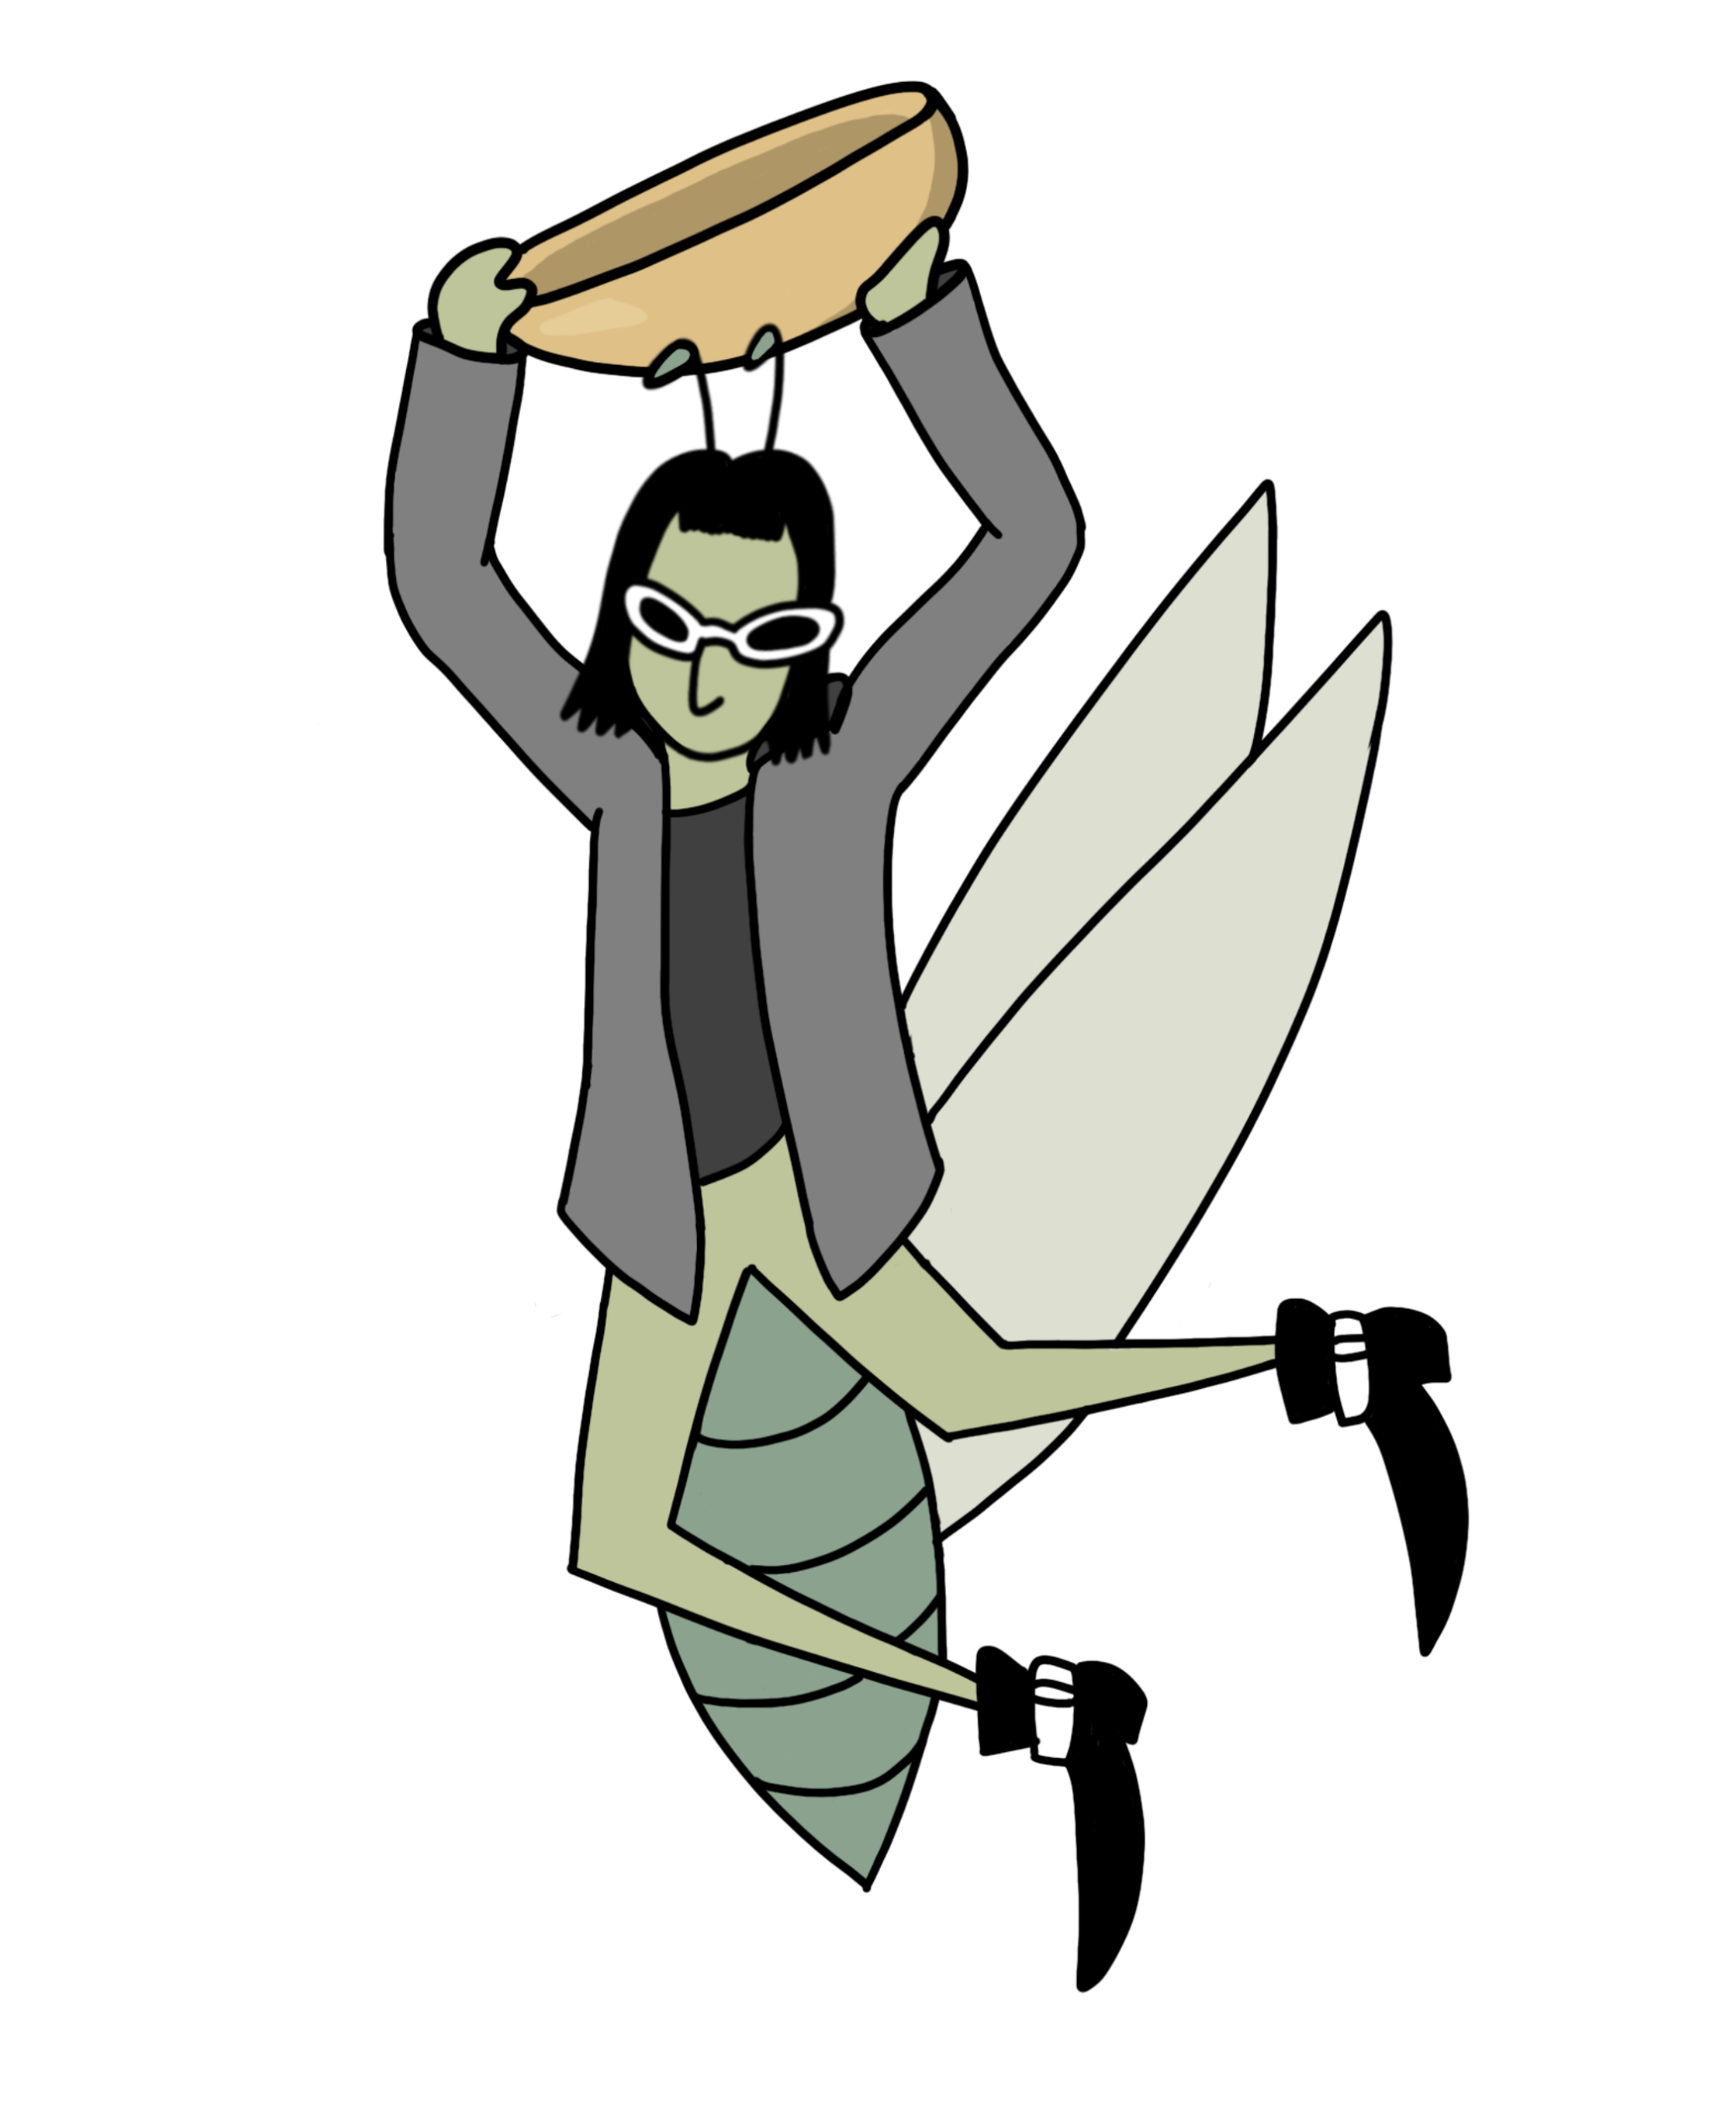
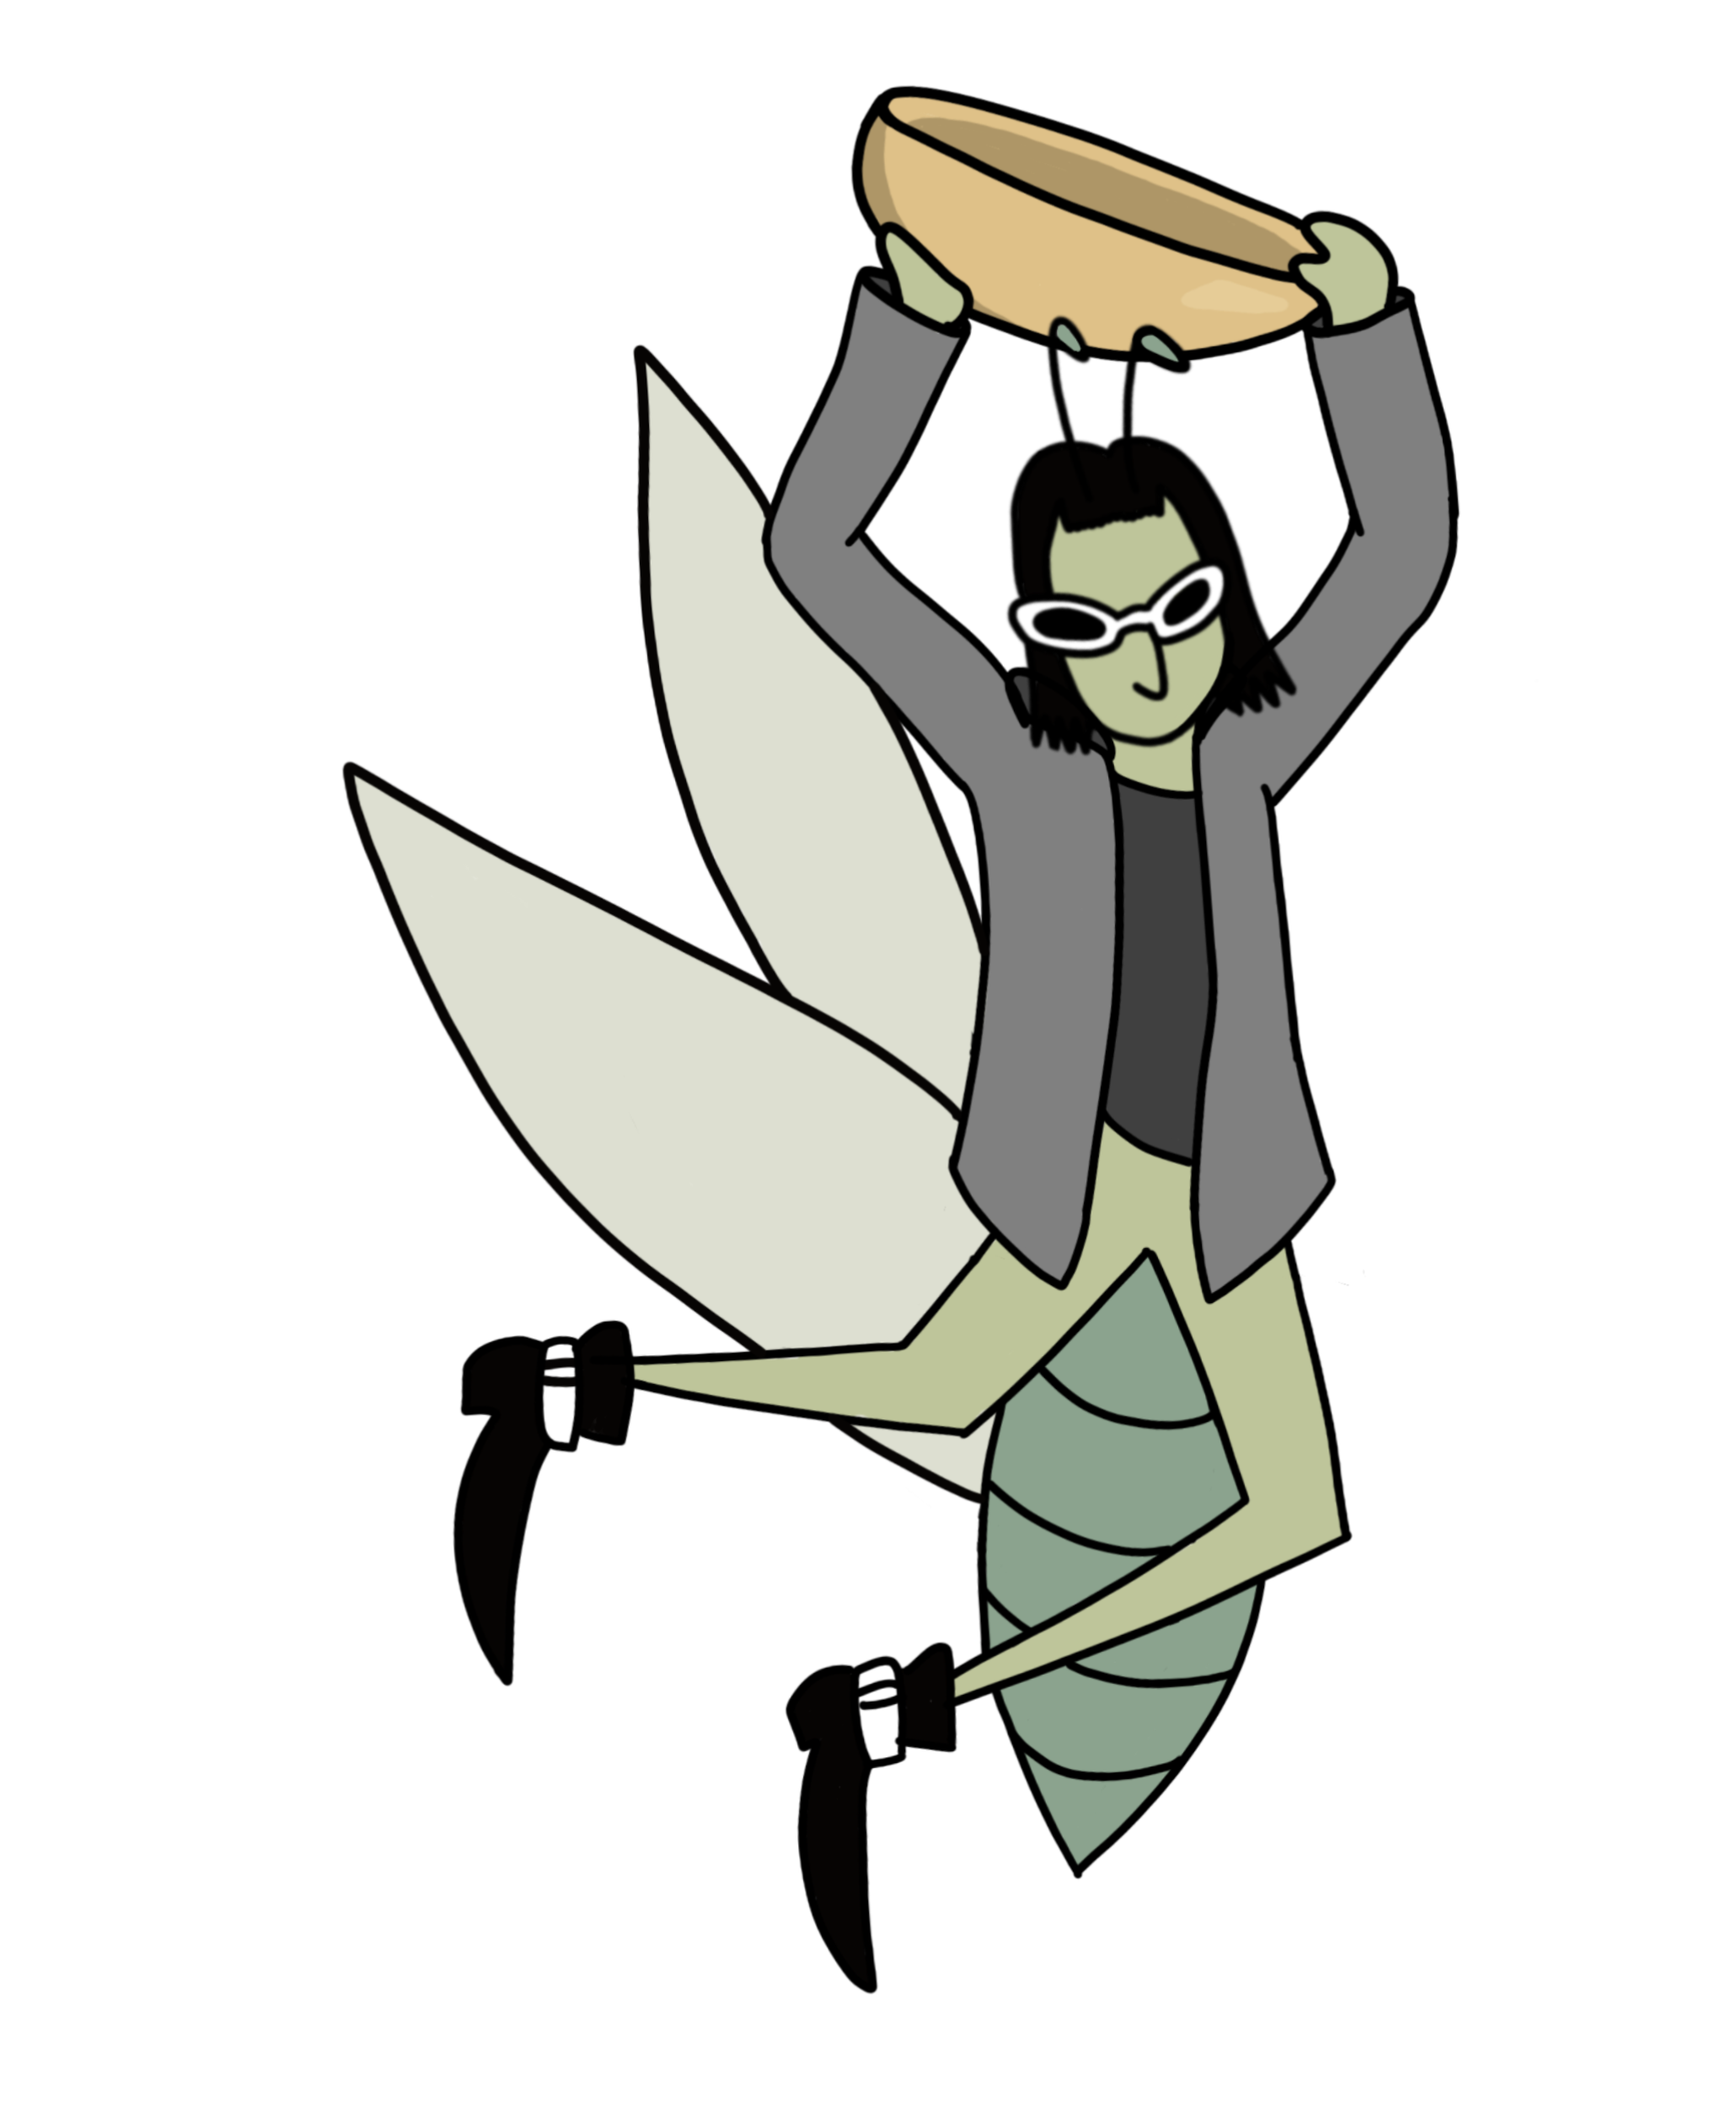
:art: Fix Flying player

diff --git a/baejjang/player.js b/baejjang/player.js
@@ -19,24 +19,20 @@ class Player{
     }
 
     moveLeft(){
-        this.playerStatus = 8;
+        if(this.playerStatus != 8){
+            this.setStatus(8);
+        }
         this.posX -= 5;
-        this.idx = 15;
     }
     moveRight(){
-        this.playerStatus = 7;
+        if(this.playerStatus != 7){
+            this.setStatus(7);
+        }
         this.posX += 5;
-        this.idx = 14;
     }
     setStatus(status){
         this.playerStatus = status;
         this.idx = status * 2;
-        if(status == 7){
-            this.idx = 14;
-        }
-        else if(status == 8){
-            this.idx = 15;
-        }
     }
     
     initPos(){
@@ -58,7 +54,7 @@ class Player{
     }
 
     display(){
-        if(this.playerStatus <= 6 && frameCount % 8 == 0){
+        if(frameCount % 8 == 0){
             if(this.idx % 2 == 0){
                 this.idx += 1;
             }else{

diff --git a/baejjang/sketch.js b/baejjang/sketch.js
@@ -33,7 +33,7 @@ let inTransition = false;
 function preload(){
   // load images
   let playerImgs = [];
-  for(let i = 0; i <= 7; i++){
+  for(let i = 0; i <= 8; i++){
     playerImgs.push(loadImage('./assets/graphic/p' + i + '_1.png'));
     playerImgs.push(loadImage('./assets/graphic/p' + i + '_2.png'));
   }
